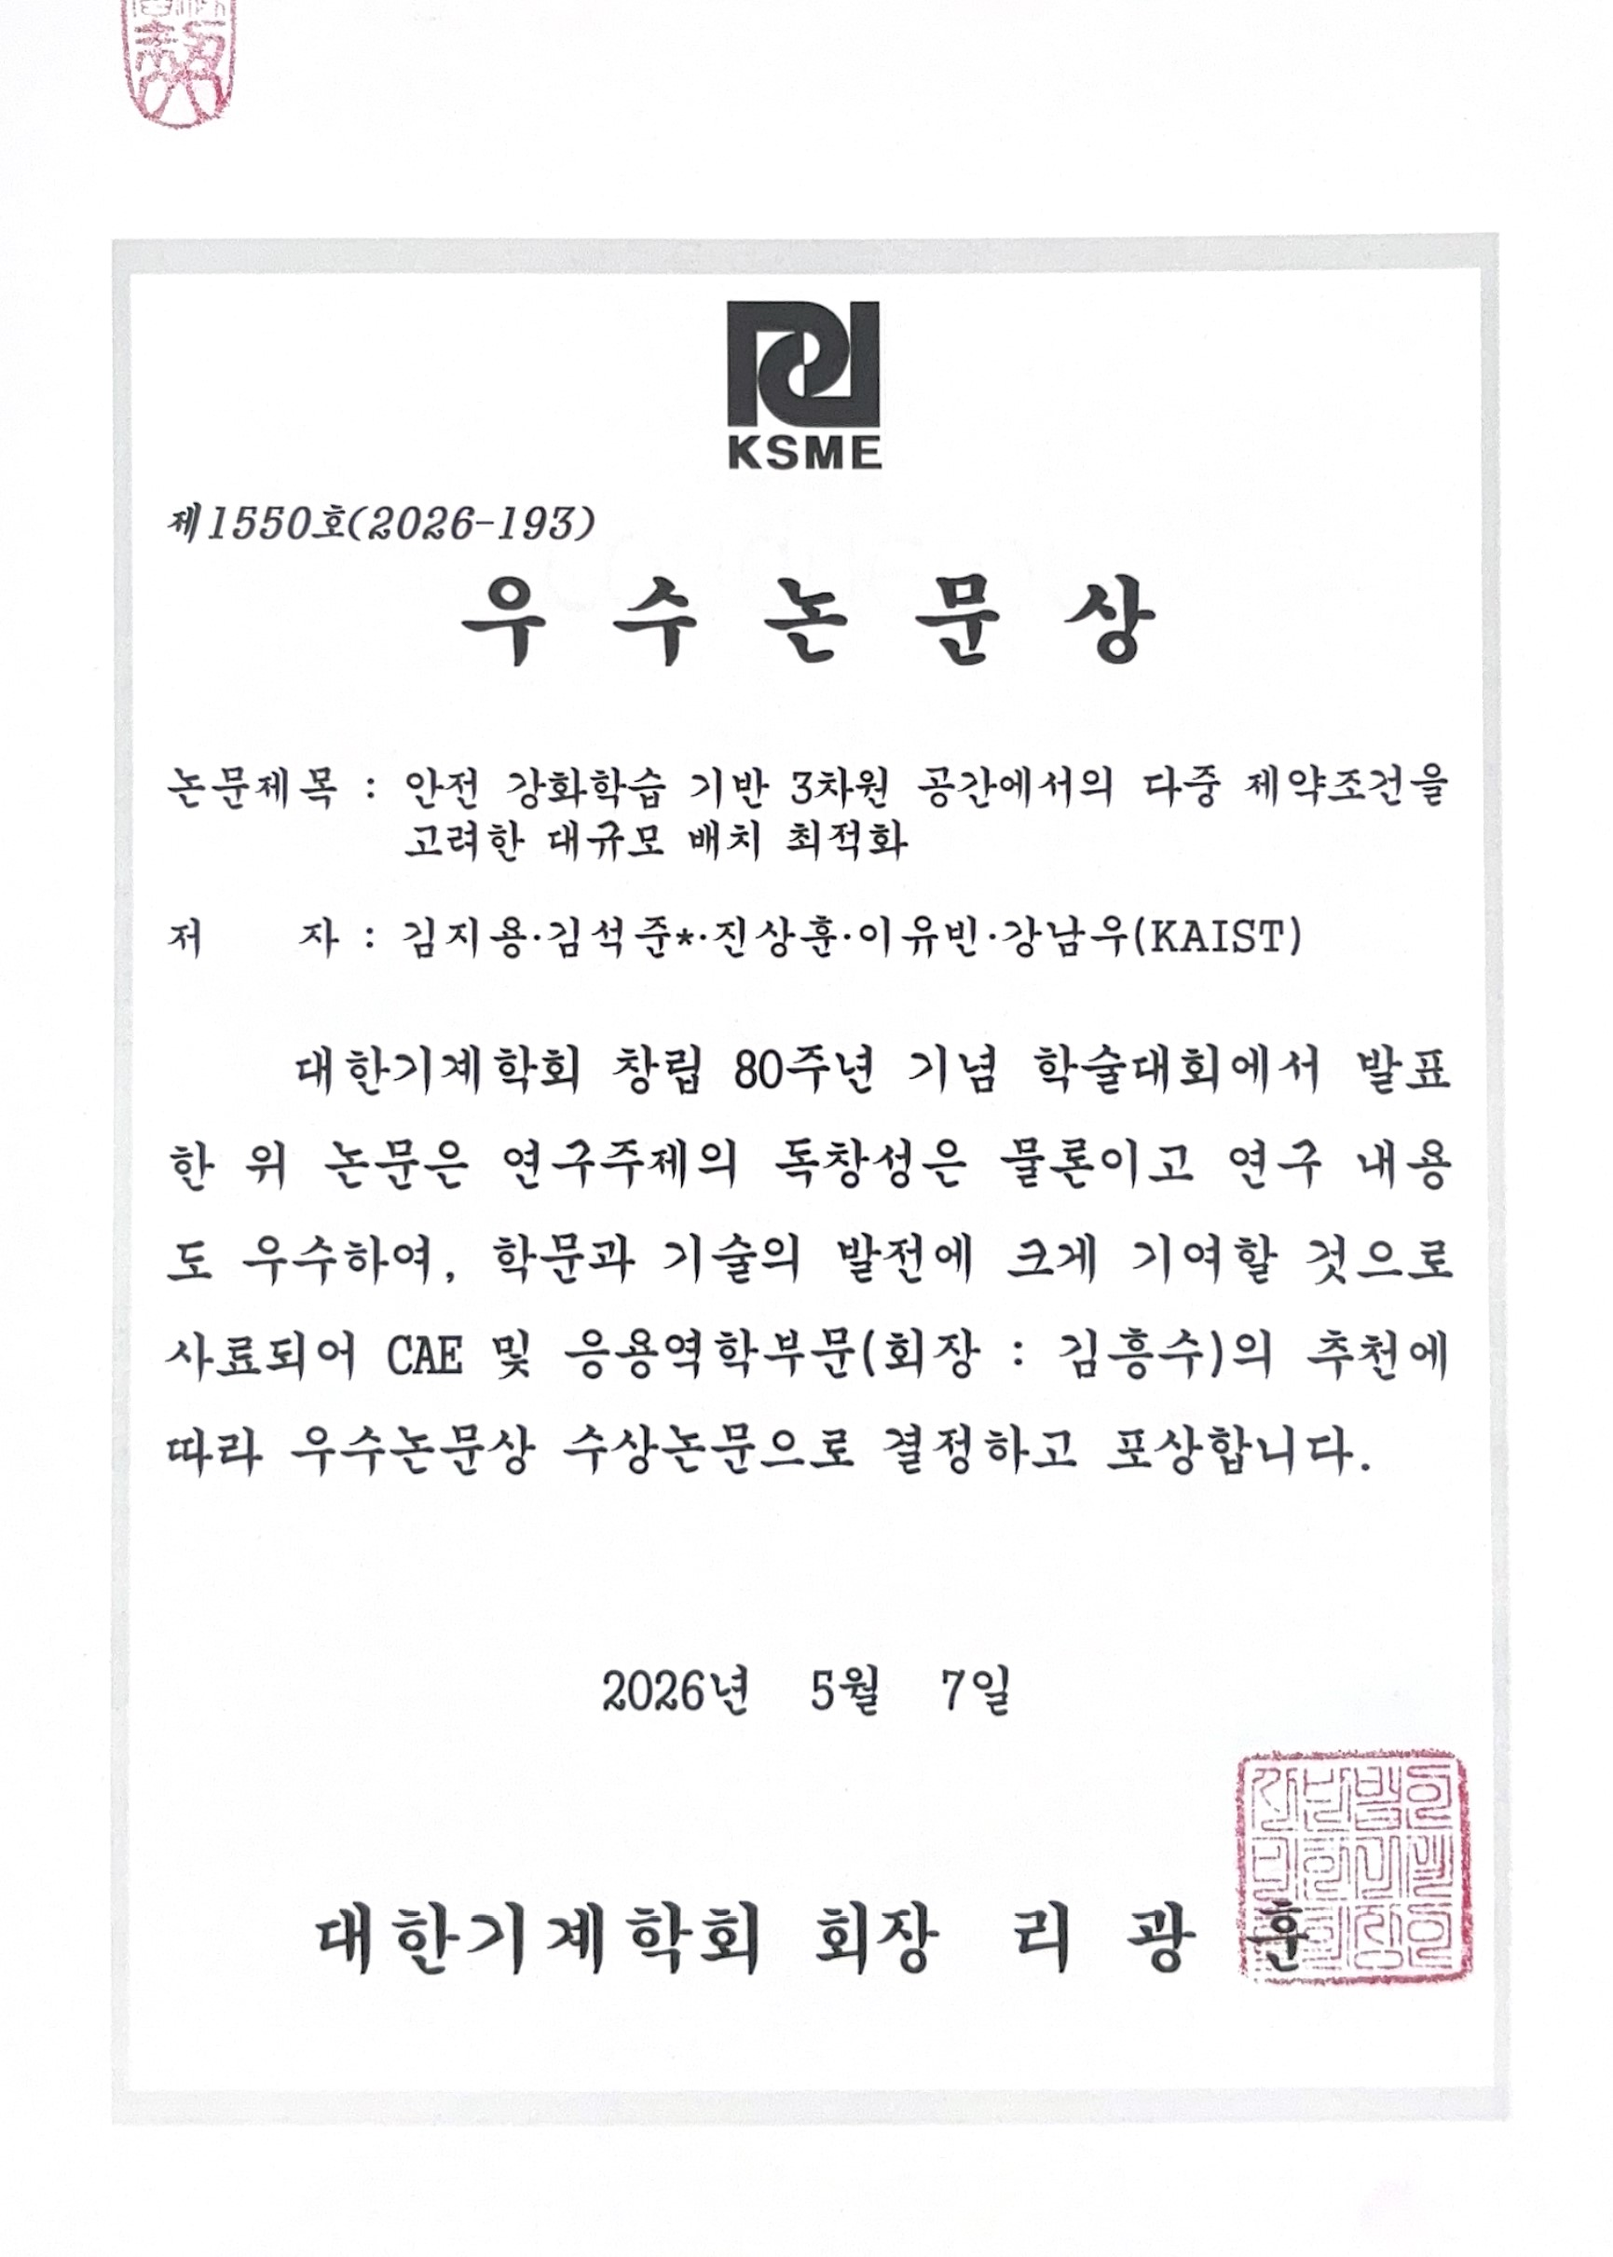
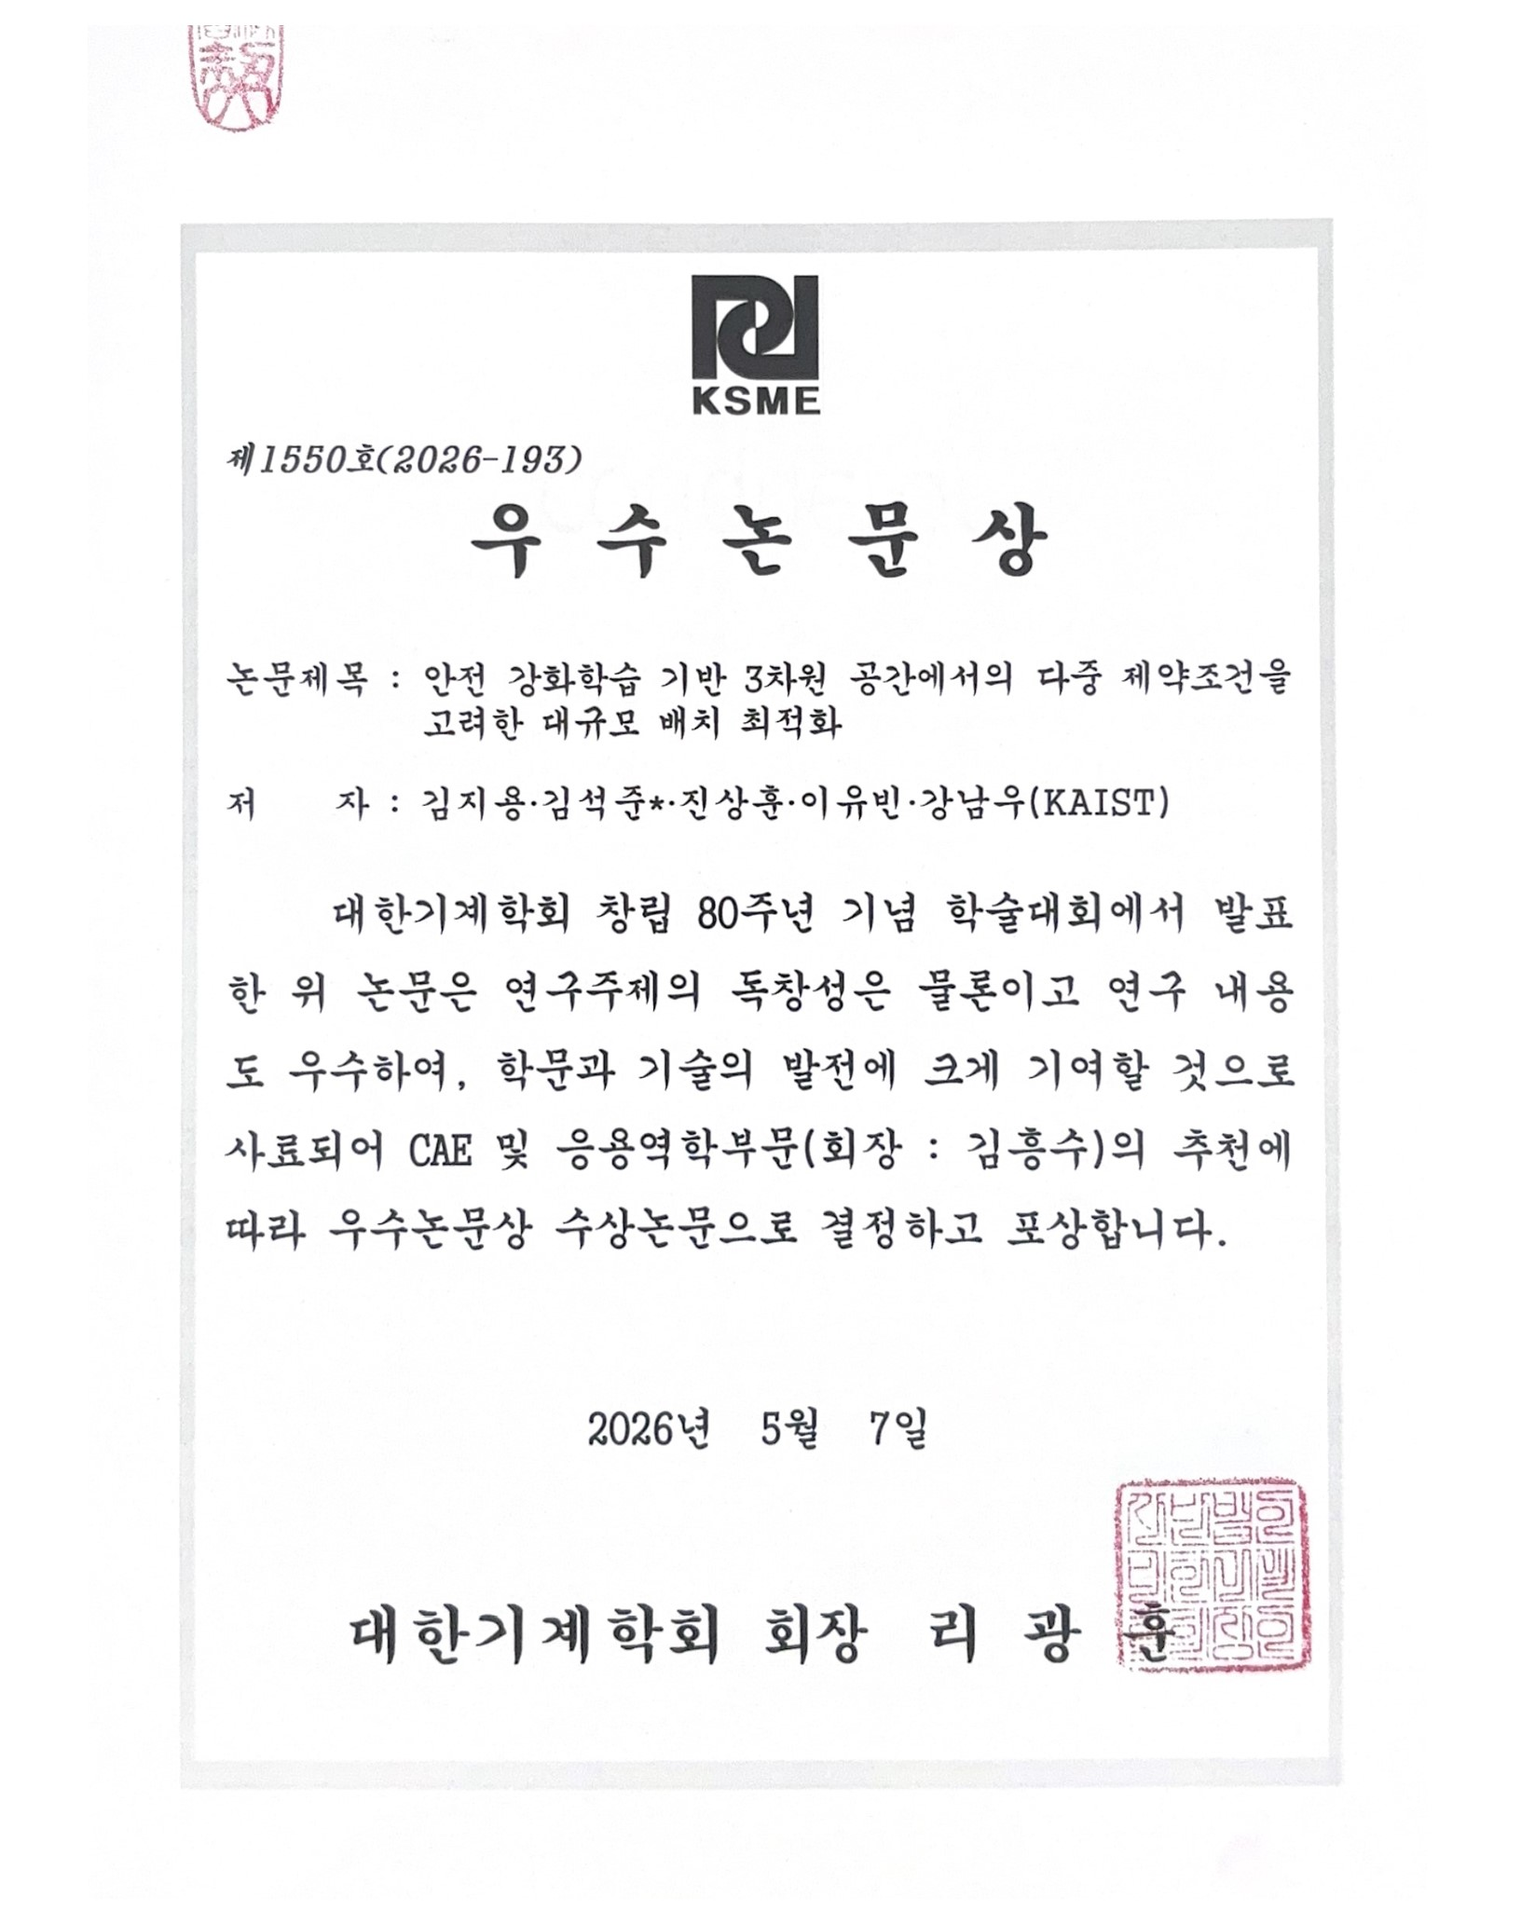
R5_0510

diff --git a/assets/css/custom.css b/assets/css/custom.css
@@ -50,8 +50,8 @@ section:nth-of-type(3) .dark .pub-list-item.view-citation::before {
   color: #333 !important;
   font-size: 1.25rem !important;
 }
-.max-w-\[65ch\] a.mb-5 .dark\:text-primary-200 {
-  color: #fff !important;
+.max-w-\[65ch\] a.mb-5 .text-black {
+  color: #333 !important;
 }
 /* 카드 컨테이너 박스 제거 */
 .max-w-\[65ch\].container {
